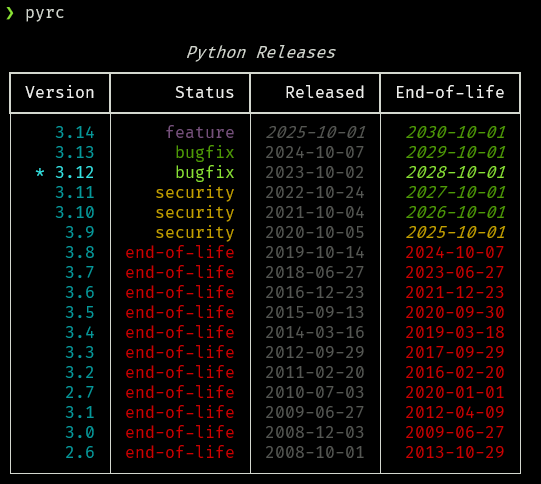
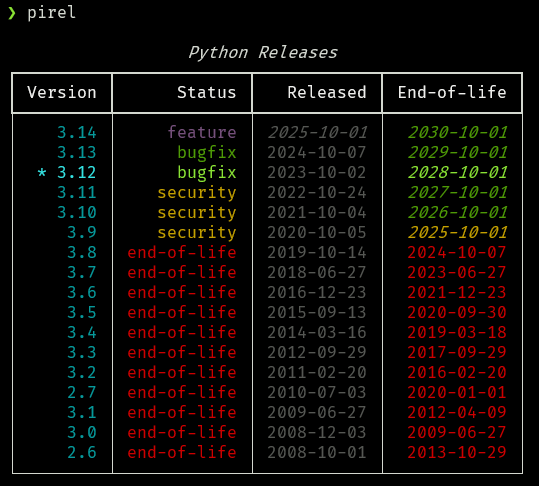
🚚 Rename pyrecycle to pirel
Due to name conflict on PyPI...

Changed region(s): [[0.0, 0.093, 0.9796, 0.9917], [0.0, 0.0, 0.1484, 0.062]]

diff --git a/pirel/cli.py b/pirel/cli.py
@@ -10,7 +10,7 @@ RICH_CONSOLE = Console()
 
 
 app = typer.Typer()
-logger = logging.getLogger("pyrecycle")
+logger = logging.getLogger("pirel")
 
 
 @app.callback(invoke_without_command=True)

diff --git a/README.md b/README.md
@@ -1,13 +1,13 @@
-# ♻ PyReCycle
+# ♻ PiRel
 The Python release cycle in your terminal!
 
 ## Installation
 
 ```
-pipx install pyrecycle
+pipx install pirel
 ```
 
 ## Usage
-Simply type `pyrc` in your terminal.
+Simply type `pirel` in your terminal.
 
 ![cli-example](./assets/images/cli.png)
